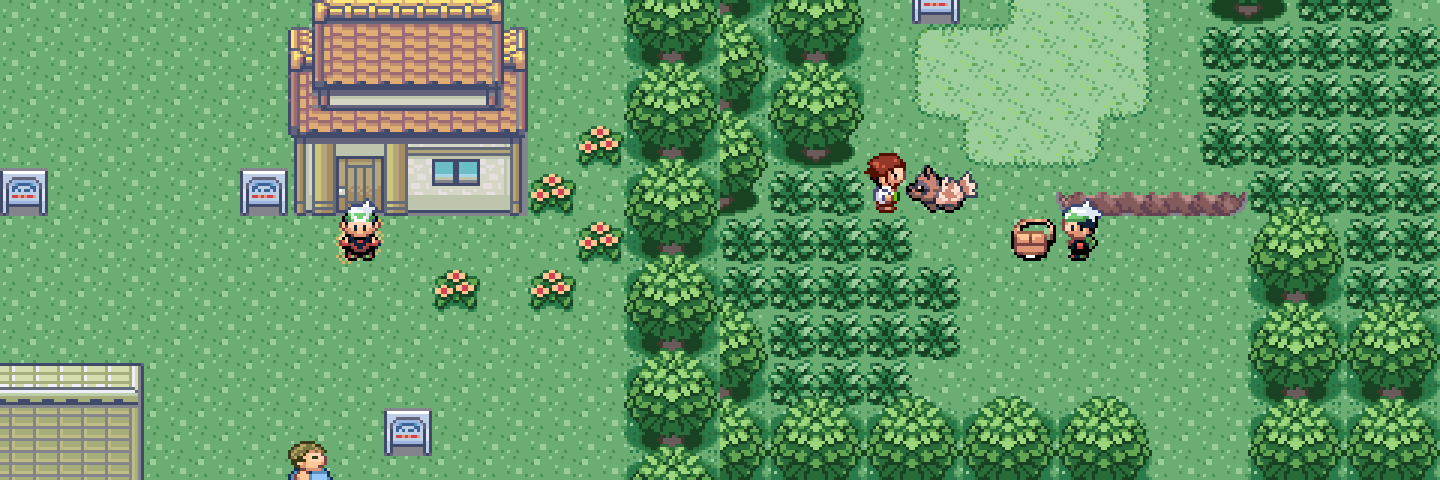
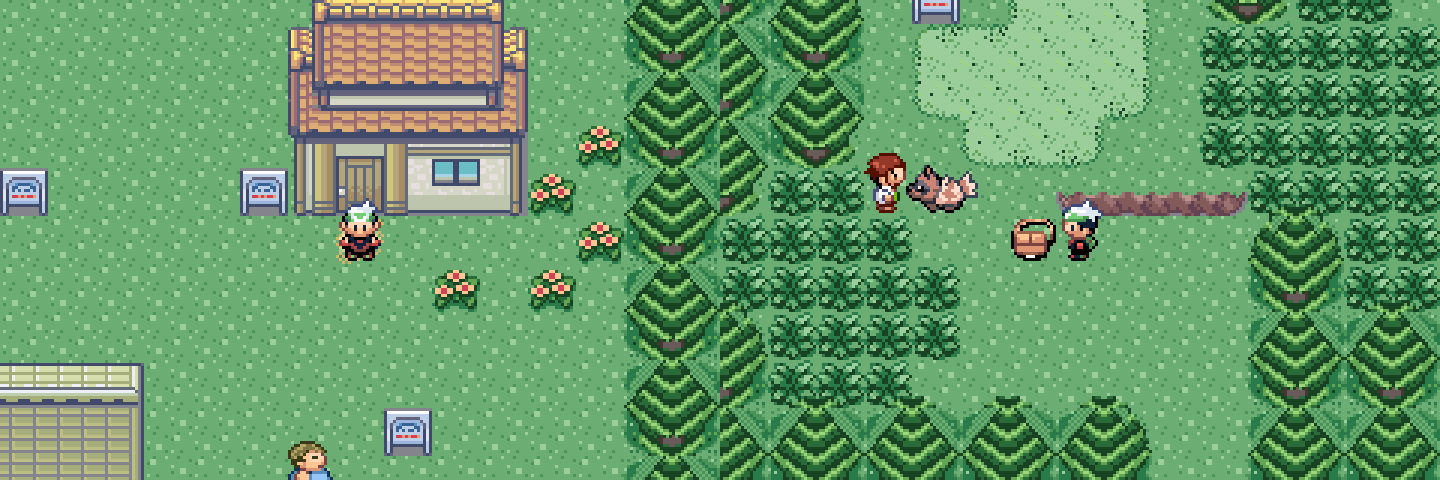
Conifer trees in the overworld
atlas/conifer_tiles.py re-shades the 40 tiles of the general tileset's
tree and its forest variants into drooping conifer tiers (symmetric, so
mirrored tiles line up) and points the standalone tree tops. Runs from
upstream in build.sh.

Claude-Session: https://claude.ai/code/session_01RzxifVypgHi6nvfJBL29E3

Changed region(s): [[0.4375, 0.0, 0.8125, 1.0], [0.8438, 0.4062, 1.0, 1.0], [0.8438, 0.0, 0.9062, 0.0625]]

diff --git a/atlas/conifer_tiles.py b/atlas/conifer_tiles.py
@@ -1,0 +1,133 @@
+#!/usr/bin/env python3
+"""Conifer trees for the overworld: re-shades the crowns of the general tileset's trees (the 32x32
+tree and its forest variants, metatiles 0x1d4-0x1ff) into drooping conifer tiers, and narrows the
+tops of standalone trees into points.
+
+Works on tile pixels, so every variant that shares a tile changes together. The tier pattern is
+symmetric about the tree's centre, so mirrored tiles still line up. Starts from upstream (needs the
+pret `upstream` remote), so it is idempotent.
+Run from the repo root: python3 atlas/conifer_tiles.py [--preview out.png]
+"""
+import io
+import os
+import struct
+import subprocess
+import sys
+
+from PIL import Image
+
+ROOT = os.path.dirname(os.path.dirname(os.path.abspath(__file__)))
+P = lambda *a: os.path.join(ROOT, *a)
+REL = 'data/tilesets/primary/general/'
+TREE_PAL = 2
+CROWN = {1, 2, 3, 4}          # palette-2 crown shades, light to dark
+GRASS = (13, 14)              # palette-2 grass shades used to fill cut-away corners
+FAMILY = range(0x1d4, 0x200)  # tree metatiles
+TOPS = {0x1d4: 0, 0x1d5: 16}  # standalone tree tops (left and right halves): sharpen these
+
+
+def git_show(path):
+    return subprocess.run(['git', 'show', 'upstream/master:' + path], cwd=ROOT, capture_output=True, check=True).stdout
+
+
+tiles = Image.open(io.BytesIO(git_show(REL + 'tiles.png')))
+tp = tiles.load()
+TW = tiles.width // 8
+meta = git_show(REL + 'metatiles.bin')
+
+
+def entries(m):
+    return struct.unpack('<8H', meta[m * 16:m * 16 + 16])
+
+
+# Where each tree tile sits across the tree: x of its first column (0-31) and whether it is mirrored.
+place = {}
+for m in FAMILY:
+    for k, v in enumerate(entries(m)):
+        tid, hf, pal = v & 0x3ff, v >> 10 & 1, v >> 12
+        if pal != TREE_PAL or tid == 0 or tid >= 512:
+            continue
+        x0 = (m % 2) * 16 + (k % 4 % 2) * 8
+        place.setdefault(tid, (x0, hf))
+
+
+def shade(x, y):
+    """Conifer tier shade at tree column x (0-31) and tile row y: bands that droop from the centre."""
+    d = abs(x - 15.5)
+    phase = (y + int(d * 0.75)) % 8
+    s = (2, 1, 2, 3, 3, 3, 4, 4)[phase]
+    if s == 1 and (int(d) + y) % 3 == 0:   # break up the highlight so tiers look like needles
+        s = 2
+    if s == 3 and (int(d) * 7 + y * 3) % 5 == 0:
+        s = 4
+    return s
+
+
+def get(tid):
+    tx, ty = tid % TW, tid // TW
+    return [[tp[tx * 8 + x, ty * 8 + y] for x in range(8)] for y in range(8)]
+
+
+def put(tid, px):
+    tx, ty = tid % TW, tid // TW
+    for y in range(8):
+        for x in range(8):
+            tp[tx * 8 + x, ty * 8 + y] = px[y][x]
+
+
+for tid, (x0, hf) in place.items():
+    px = get(tid)
+    out = [row[:] for row in px]
+    for y in range(8):
+        for x in range(8):
+            if px[y][x] not in CROWN:
+                continue
+            # keep the dark outline: crown pixels next to a non-crown pixel stay as they are
+            edge = any(not (0 <= x + dx < 8 and 0 <= y + dy < 8) or px[y + dy][x + dx] not in CROWN
+                       for dx, dy in ((1, 0), (-1, 0), (0, 1), (0, -1))
+                       if 0 <= x + dx < 8 and 0 <= y + dy < 8)
+            if edge and px[y][x] == 4:
+                continue
+            col = x0 + (7 - x if hf else x)
+            out[y][x] = shade(col, y)
+    put(tid, out)
+
+# Sharpen standalone tops: cut the rounded shoulders into a pointed crown (16 rows of the top half).
+for m, xoff in TOPS.items():
+    e = entries(m)
+    for k in range(4):
+        v = e[k]
+        tid, hf = v & 0x3ff, v >> 10 & 1
+        if v >> 12 != TREE_PAL:
+            continue
+        px = get(tid)
+        for y in range(8):
+            for x in range(8):
+                col = xoff + (k % 2) * 8 + (7 - x if hf else x)
+                row = (k // 2) * 8 + y
+                half = 3 + row * 0.85          # crown half-width at this row
+                d = abs(col - 15.5)
+                if px[y][x] in CROWN and d > half:
+                    px[y][x] = GRASS[(col + row) % 2]
+                elif px[y][x] in CROWN and d > half - 1.2:
+                    px[y][x] = 4
+        put(tid, px)
+
+tiles.save(P(REL, 'tiles.png'))
+
+if '--preview' in sys.argv:
+    out = sys.argv[sys.argv.index('--preview') + 1]
+    pal = open(P(REL, 'palettes', '%02d.pal' % TREE_PAL)).read().split()[3:]
+    colors = [tuple(map(int, pal[i * 3:i * 3 + 3])) for i in range(16)]
+    img = Image.new('RGB', (96, 64))
+    grid = [[0x1d4, 0x1d5] * 3, [0x1dc, 0x1dd] * 3] * 2
+    for gy, row in enumerate(grid):
+        for gx, m in enumerate(row):
+            for k, v in enumerate(entries(m)[:4]):
+                tid, hf, vf = v & 0x3ff, v >> 10 & 1, v >> 11 & 1
+                for y in range(8):
+                    for x in range(8):
+                        c = tp[(tid % TW) * 8 + (7 - x if hf else x), (tid // TW) * 8 + (7 - y if vf else y)]
+                        img.putpixel((gx * 16 + (k % 2) * 8 + x, gy * 16 + (k // 2) * 8 + y), colors[c])
+    img.resize((384, 256), Image.NEAREST).save(out)
+print('conifer: %d tree tiles re-shaded' % len(place))

diff --git a/docs/STATE.md b/docs/STATE.md
@@ -57,6 +57,10 @@ Updated at the end of every session. Read this first, then `docs/TASKS.md` and `
 - **Villain motives**: stand-in lines in `atlas/text/07_motives.tsv`: CINDER wants the old
   forests to burn so they renew; RIPTIDE wants the sea to take back the land. Owner to approve.
 
+- **Conifers**: `atlas/conifer_tiles.py` re-shades the 40 tiles of the tree and its forest variants
+  into tiered conifers and points the standalone tops; works on shared tiles, so all variants stay
+  consistent (`docs/overworld.png`).
+
 **Known issues**
 - Dialogue still tells Hoenn's story with BC names (P4), so some lines read oddly, e.g. HOPE's
   founding or the KAMLOOPS ash. Wally's tutorial catch (Ralts slot) is now SAR11, a microbe.
@@ -68,8 +72,8 @@ Updated at the end of every session. Read this first, then `docs/TASKS.md` and `
 
 ## Next three tasks
 
-1. P3: conifer tree art (the tree block plus its forest variants), then new coast and Interior tiles.
-2. P4: dialogue area by area (Hoenn story beats that still read oddly), starting with the opening and LADNER.
+1. P4: dialogue area by area, starting with the opening and LADNER.
+2. P3: new coast and Interior tiles (arbutus, sagebrush, cannery, float homes).
 3. Cryptid islands reachable after the credits without event tickets.
 
 ## Waiting on the owner

diff --git a/README.md b/README.md
@@ -50,6 +50,7 @@ idempotent and works on the committed tree. The picker and the title step need t
 | `make_title.py` | Title logo: original wordmark plus a "BC" banner. |
 | `region_map.json`, `make_region_map.py` | The BC region map (TrailNav and Fly): terrain grid, section cells and landmark positions, drawn into the map tiles, tilemap, section grid and section positions. |
 | `recolor.json`, `recolor_tiles.py` | Overworld recolour: exact colours swapped in every tileset palette (mossy grass, conifer greens, Pacific water). |
+| `conifer_tiles.py` | Conifer trees: re-shades every tree tile in the general tileset into drooping tiers and points the standalone tree tops. |
 | `make_trailnav.py` | TRAILNAV header and BC MAP button in the device graphics. |
 | `make_headers.py` | Repaints baked-in menu text: "BC MAP" TrailNav header, "JOURNAL" search-screen wordmark. |
 | `theme_trainers.js` | Every trainer uses BC organisms; gym leaders, gym trainers, Elite Four and Champion get organisms of their gym's type. |

diff --git a/docs/TASKS.md b/docs/TASKS.md
@@ -29,7 +29,7 @@ Phases come from `docs/BC_PLAN.md`. Keep each task finishable in one session.
 - [x] Place renames from the P1 table (towns, landmarks, routes)
 - [x] BC TrailNav region map (`atlas/region_map.json`, `make_region_map.py`; TRAILNAV header and BC MAP button by `make_trailnav.py`)
 - [x] Palette swap: coast greens, conifer greens, Pacific blue water (`atlas/recolor.json`)
-- [ ] Conifer tree art: redraw the 32x32 tree and its ~30 forest variants (tips, edges, overlaps)
+- [x] Conifer tree art: tiered conifer shading on all tree tiles, pointed tops (`atlas/conifer_tiles.py`)
 - [ ] New tiles: arbutus coast, sagebrush, cannery, float homes
 - [ ] Signs and landmark text
 
